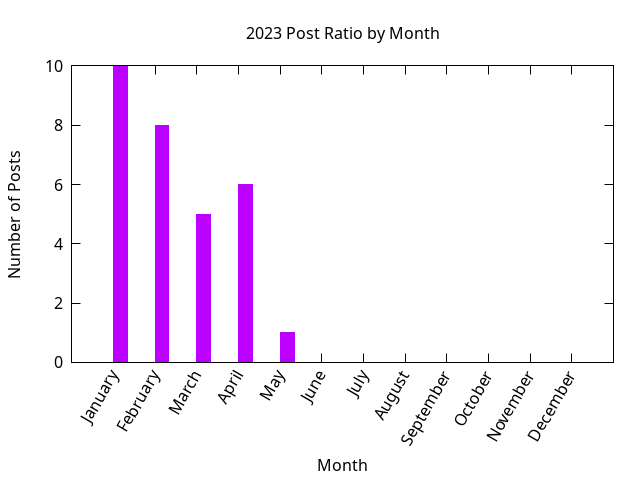
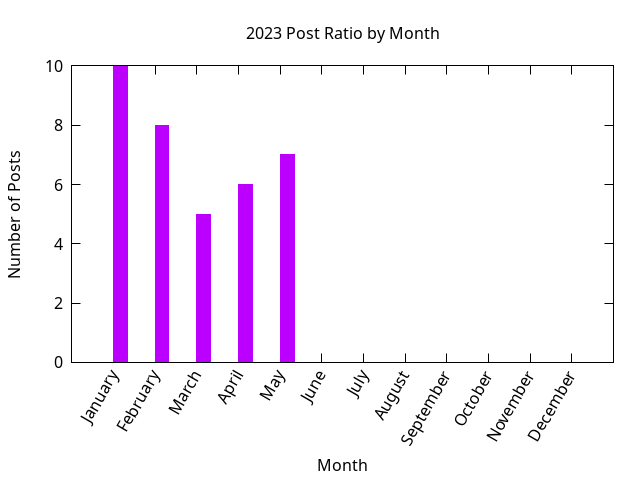
Stats update

Changed region(s): [[0.4375, 0.3125, 0.4688, 0.6875]]

diff --git a/_includes/stats/2023.md b/_includes/stats/2023.md
@@ -1,19 +1,19 @@
 <a name="2023" />
 ## 2023 (work in progress)
 
-**30 total posts** have been written on 2023.
+**36 total posts** have been written on 2023.
 There have been *9 different tags* used, the most
 popular being (sorted by number of posts):
  
-- *perl* (18 posts)  
-- *perlweeklychallenge* (16 posts)  
-- *raku* (16 posts)  
-- *planet-postgresql-org* (9 posts)  
-- *postgresql* (9 posts)  
-- *emacs* (1 posts)  
+- *perl* (21 posts)  
+- *perlweeklychallenge* (19 posts)  
+- *raku* (19 posts)  
+- *planet-postgresql-org* (12 posts)  
+- *postgresql* (12 posts)  
+- *libreoffice* (1 posts)  
 - *pgagroal* (1 posts)  
 - *oracle* (1 posts)  
-- *libreoffice* (1 posts).<br/>
+- *emacs* (1 posts).<br/>
 <br/>
 The following is the overall 2023 post ratio by month:
 <br/>
@@ -32,7 +32,7 @@ The following is the overall 2023 post ratio by tag (showing max 30 tags):
 
 <div align="right">
 <small>
-Last generated on 2023-05-04 at 13:19
+Last generated on 2023-05-29 at 15:52
 </small>
 </div>
 
